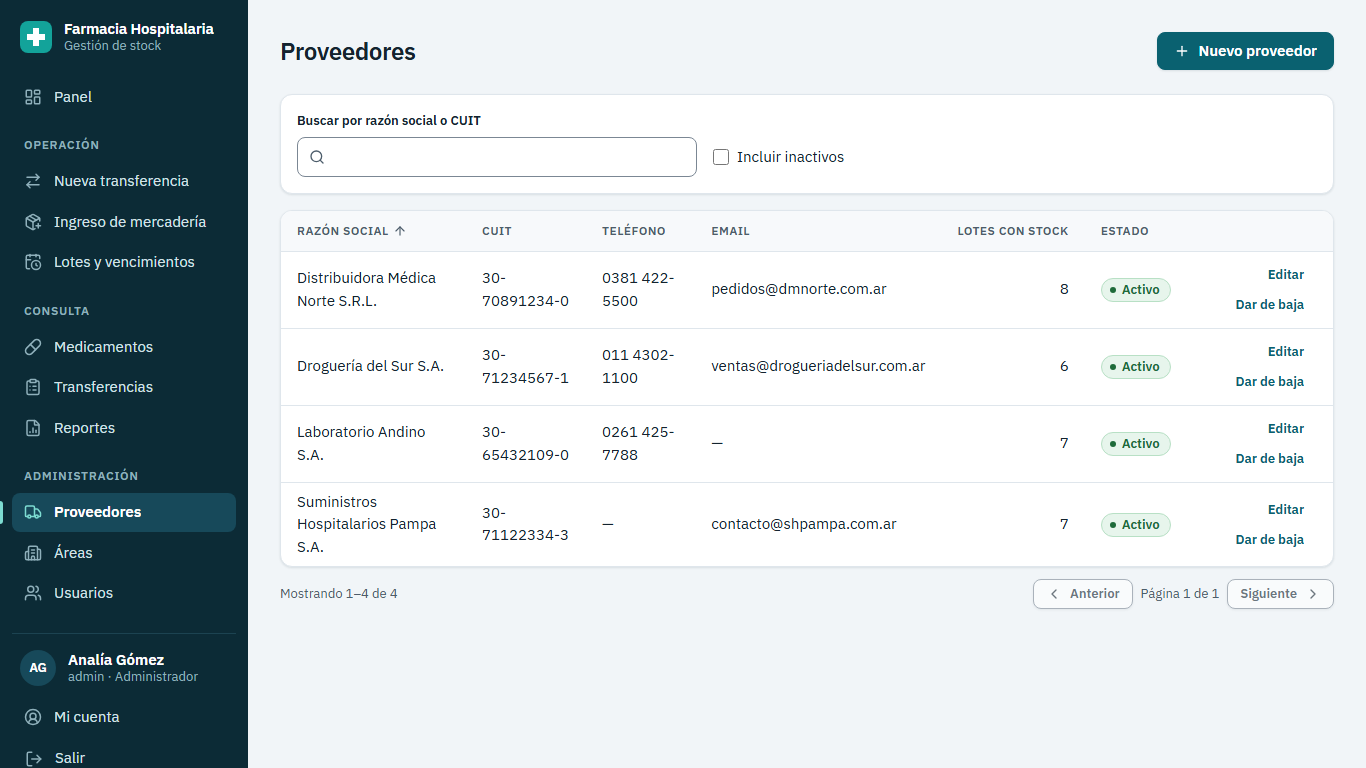
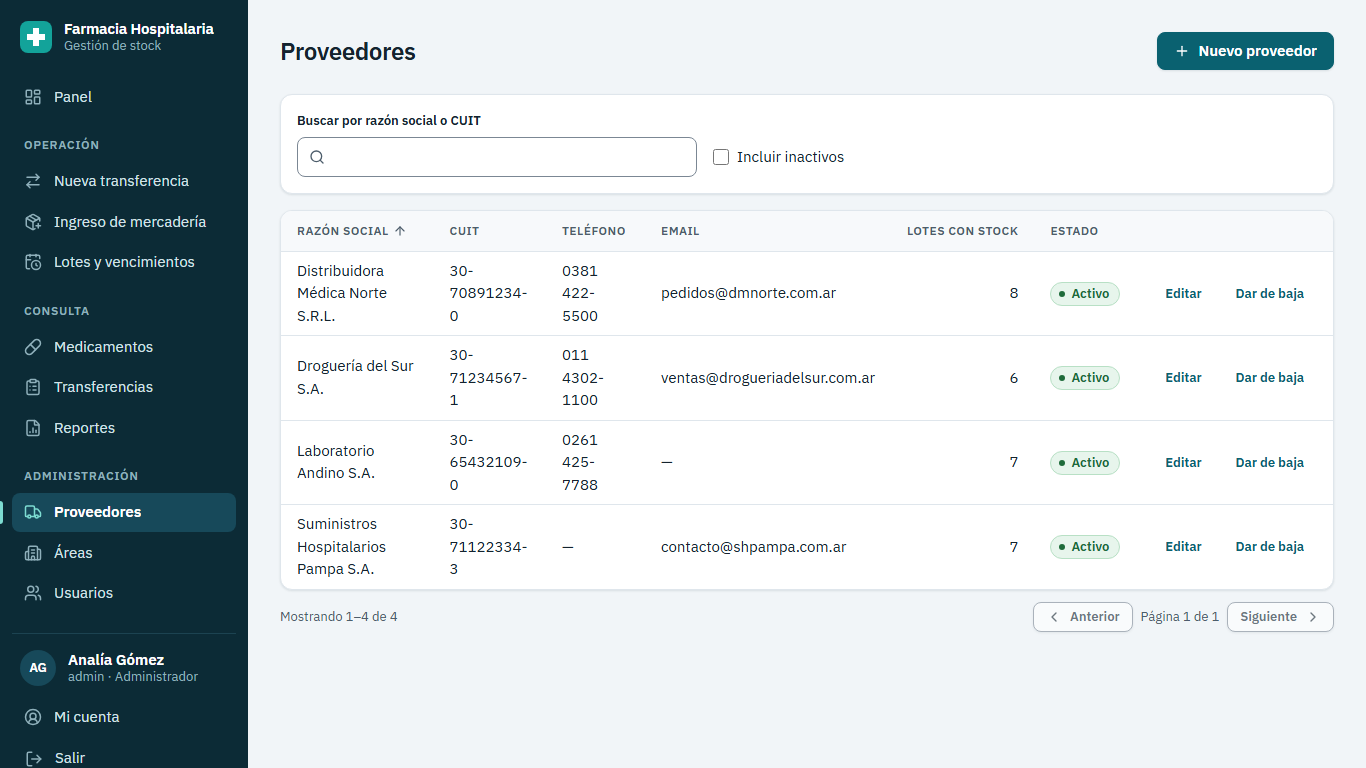
fix(frontend): botones de acción de las tablas uno al lado del otro
"Dar de baja" y "Ajustar" quedan separados y con borde; la baja en rojo
porque no se puede deshacer. Por debajo de 1100 px el menú pasa a la
barra superior para que las tablas entren sin cortarse.

Claude-Session: https://claude.ai/code/session_01Af3dAFA8coqJMWrtRAxfVs

diff --git a/frontend/src/styles/componentes.css b/frontend/src/styles/componentes.css
@@ -245,7 +245,7 @@
   }
 }
 
-@media (max-width: 1023px) {
+@media (max-width: 1099px) {
   .menu > .menu__marca {
     display: none;
   }
@@ -381,6 +381,17 @@
 .boton--peligro:hover:not(:disabled) {
   border-color: var(--peligro-texto);
   background: var(--peligro-texto);
+}
+
+/* Acción destructiva dentro de una tabla: borde y texto rojos, sin el fondo lleno. */
+.boton--peligro-suave {
+  border-color: var(--peligro-solido);
+  color: var(--peligro-texto);
+}
+
+.boton--peligro-suave:hover:not(:disabled) {
+  border-color: var(--peligro-texto);
+  background: var(--peligro-fondo);
 }
 
 .boton--texto {
@@ -718,12 +729,11 @@ textarea.control {
   background: var(--color-borde);
 }
 
-/* Los botones pasan a otro renglón si no entran, en vez de ensanchar la tabla. */
+/* Uno al lado del otro y separados, para no apretar el botón equivocado. */
 .tabla__acciones {
   display: flex;
-  flex-wrap: wrap;
   justify-content: flex-end;
-  gap: 0 var(--esp-1);
+  gap: var(--esp-2);
 }
 
 .tabla__acciones .boton {

diff --git a/frontend/src/pages/lotes/PaginaLotes.tsx b/frontend/src/pages/lotes/PaginaLotes.tsx
@@ -270,14 +270,14 @@ export function PaginaLotes() {
           {l.estado === 'VENCIDO' && (
             <button
               type="button"
-              className="boton boton--chico boton--texto"
+              className="boton boton--chico boton--peligro-suave"
               onClick={() => setDandoDeBaja(l)}
             >
               Dar de baja
               <span className="solo-lectores"> por vencimiento el lote {l.numeroLote}</span>
             </button>
           )}
-          <button type="button" className="boton boton--chico boton--texto" onClick={() => setAjustando(l)}>
+          <button type="button" className="boton boton--chico" onClick={() => setAjustando(l)}>
             Ajustar<span className="solo-lectores"> el lote {l.numeroLote}</span>
           </button>
         </div>

diff --git a/docs/decisiones-frontend.md b/docs/decisiones-frontend.md
@@ -31,7 +31,8 @@ Se fusiona con `docs/decisiones.md` cuando el backend cree ese archivo.
 | Pantalla **Reportes** que agrupa los reportes, con "Ver en pantalla" y descarga en Excel (CSV) o PDF | Un botón de exportar en cada listado | La consigna exige reportes (mostrar y exportar). Juntos se encuentran fácil; el historial de transferencias y el comprobante mantienen además sus propios botones. |
 | Descargas con `useDescarga`: un estado por botón y el error como aviso | Estado de carga en cada pantalla | El mismo patrón en Reportes, Transferencias y el comprobante. |
 | Ingreso y recuperación de contraseña: solo el formulario centrado, con el logo y el nombre del sistema (`MarcoIngreso`) | Panel de presentación al costado | Pedido del usuario: la pantalla queda más limpia. La recuperación tiene URL propia (`/recuperar`) porque es un flujo de dos pasos. |
-| Tablas sin desborde de 1024 a 1600 px: botones de acción que pasan de renglón, celdas compactas hasta 1365 px y panel en una columna hasta 1439 px | Dejar el desplazamiento horizontal | Con el zoom de Windows (125 %) una pantalla de 1600 px queda en 1280 px y la tabla se cortaba. |
+| Tablas sin desborde de 900 a 1600 px: celdas compactas hasta 1365 px, panel en una columna hasta 1439 px y menú en la barra superior por debajo de 1100 px | Dejar el desplazamiento horizontal | Con el zoom de Windows (125 %) una pantalla de 1600 px queda en 1280 px y la tabla se cortaba. Más angosto que 900 px la tabla se desliza dentro de su tarjeta. |
+| Botones de acción de las tablas uno al lado del otro y separados; "Dar de baja" con borde rojo | Botones de texto apilados | Apilados era fácil apretar el equivocado. El rojo marca la acción que no se puede deshacer. |
 | Si el foco sale de un campo hacia el botón de enviar, no se valida al salir | Validar siempre al salir | El mensaje de error desaparecía al apretar el botón, el botón subía y el clic caía afuera. El envío valida todo igual. |
 
 ## Diferencias con el contrato (`Back_v2.md` §8)
